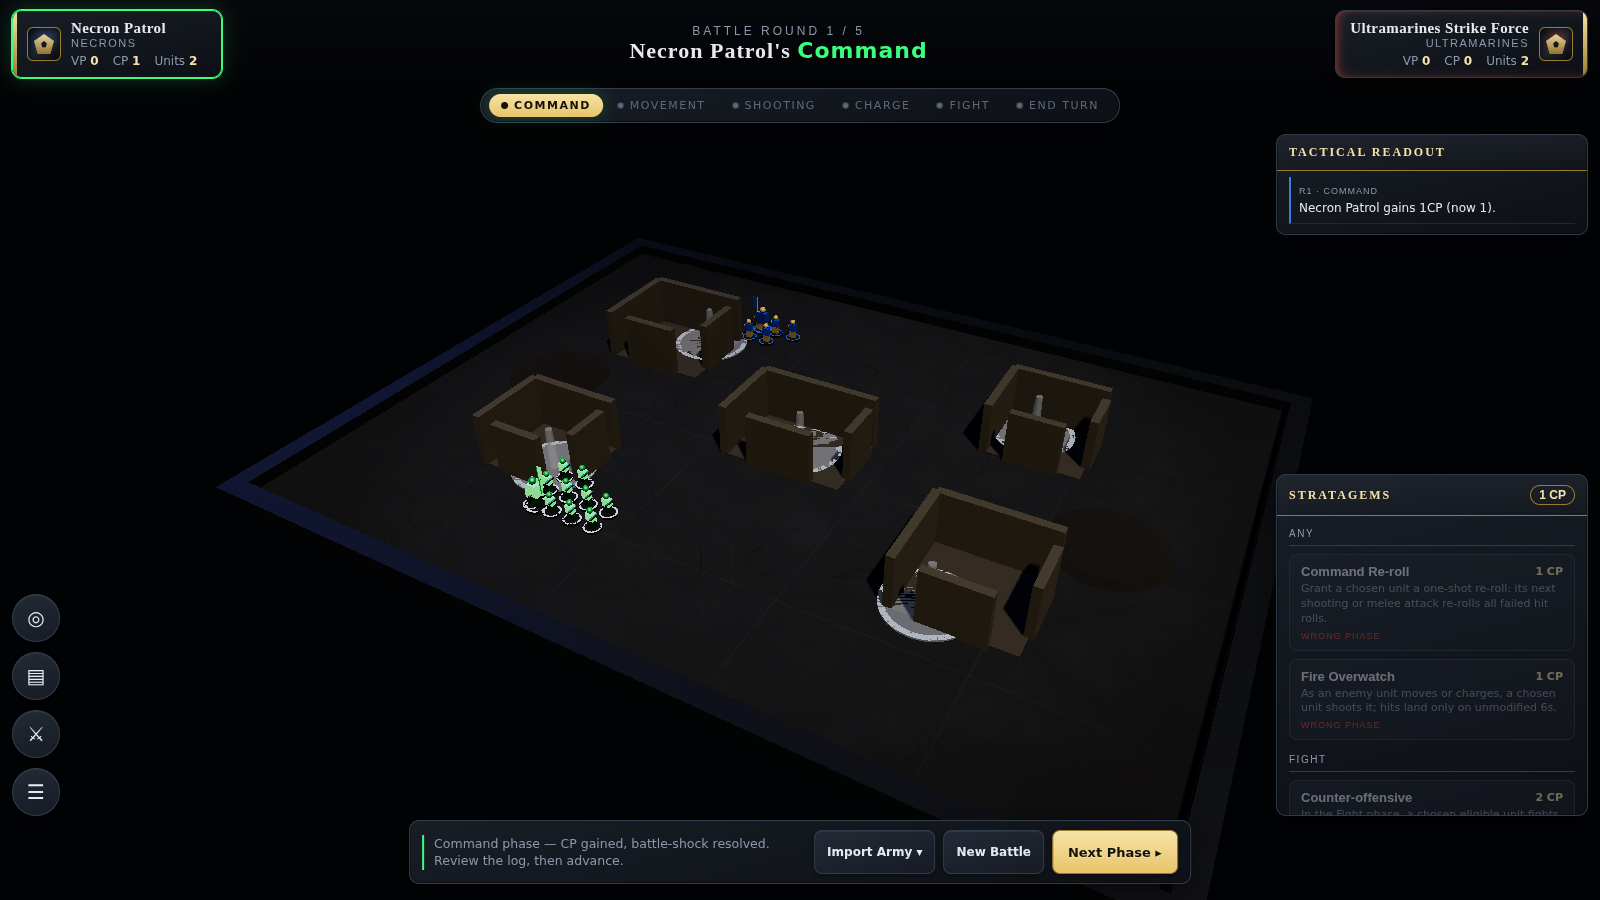
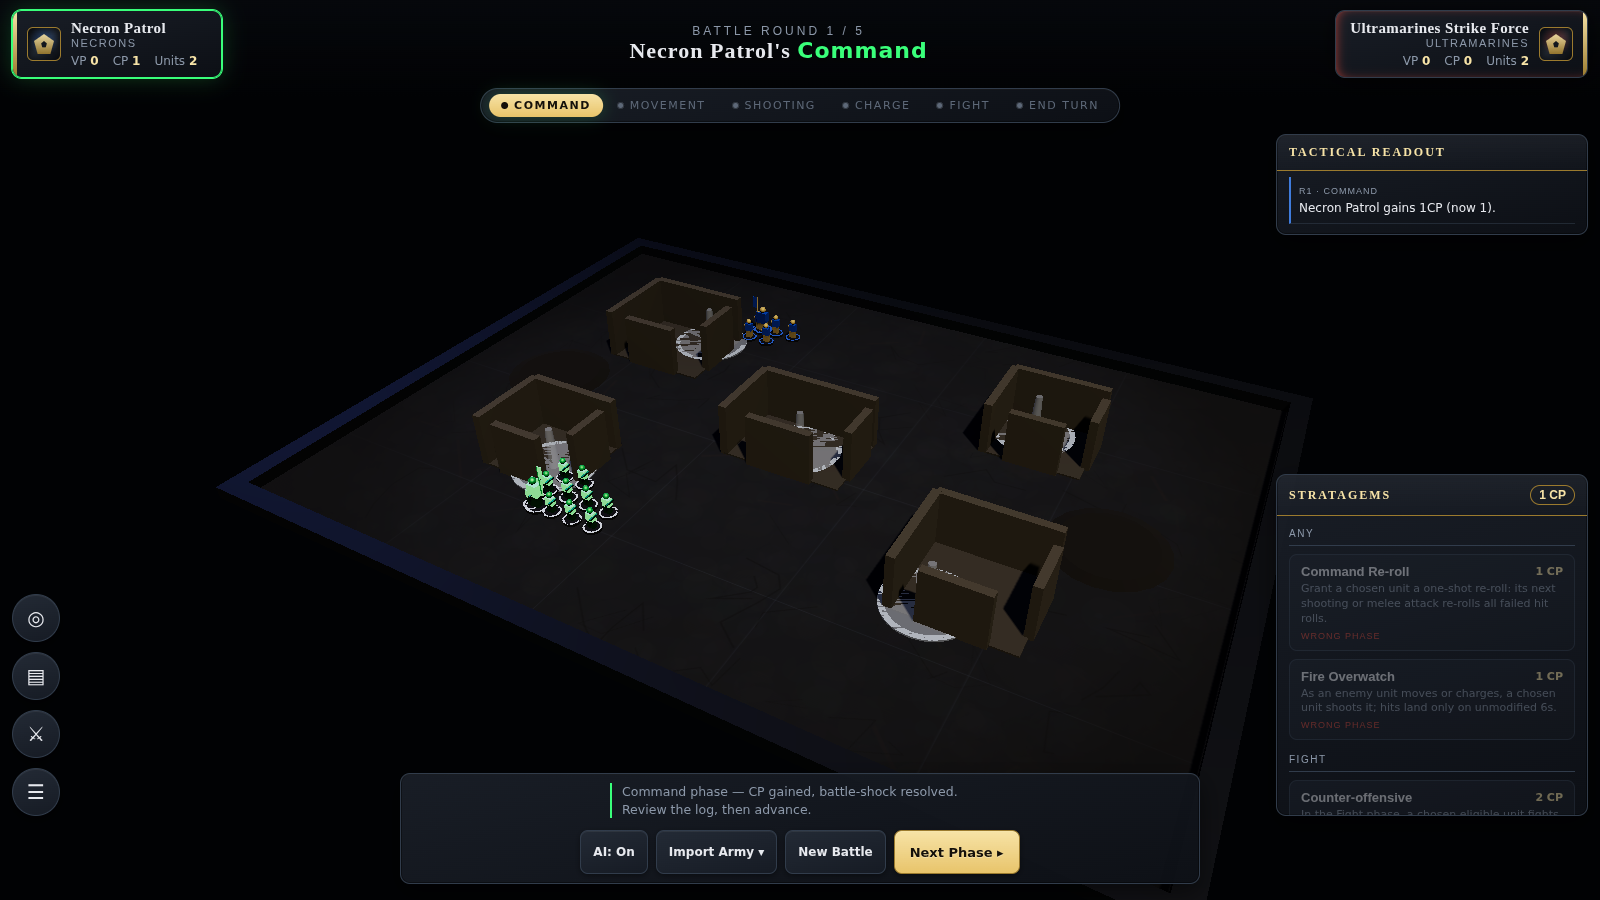
Add in-game Strategic Reserves + Deep Strike placement, AI deep-strikes
- Engine: sendToReserves (round-1 declaration, carries attached leader)
- Renderer: hides units held in reserves until they arrive
- HUD: round-1 'To Reserves' button; round-2 deep-strike placement mode with
  9" enemy exclusion rings; click to arrive (legality enforced)
- AI: brings reserves on by deep strike, ring-searching for a legal >9" spot
- Tests: reserves removal, round gating, AI deep-strike (120 total)

Claude-Session: https://claude.ai/code/session_017cP5UXbtBHAKPfxjZDVjCB

Changed region(s): [[0.25, 0.84, 0.75, 0.9956], [0.4062, 0.3733, 0.4375, 0.4044]]

diff --git a/src/ui/HUD.ts b/src/ui/HUD.ts
@@ -52,6 +52,9 @@ export class GameUI {
   /** Which side, if any, is played by the heuristic AI. Default: player B. */
   private aiPlayer: PlayerId | null = 'B';
 
+  /** When set, the next table click deep-strikes this reserve unit. */
+  private deepStrikeUnitId: string | null = null;
+
   // Stratagem shell state (presentation only).
   private stratagems: StratagemEntry[] = [];
   private onStratagem: ((id: string) => void) | null = null;
@@ -320,6 +323,42 @@ export class GameUI {
       );
     }
 
+    // Strategic Reserves: declare in round 1 command, arrive from round 2 movement.
+    if (
+      phase === 'command' &&
+      this.engine.state.round === 1 &&
+      sel &&
+      sel.ownerId === this.engine.active &&
+      !sel.inReserves &&
+      !sel.leadingUnitId
+    ) {
+      actions.append(
+        this.button('→ Reserves', 'small', () => {
+          const res = this.engine.sendToReserves(sel.id);
+          this.notify(res.message, !res.ok);
+          this.deselect();
+          this.refresh();
+        }),
+      );
+    }
+    if (phase === 'movement' && this.engine.state.round >= 2) {
+      for (const r of this.engine.reservesOf(this.engine.active)) {
+        const active = this.deepStrikeUnitId === r.id;
+        actions.append(
+          this.button(
+            `${active ? 'Placing ▸ ' : '⤓ Deep Strike: '}${r.name}`,
+            `small ${active ? 'primary' : ''}`,
+            () => {
+              this.deepStrikeUnitId = active ? null : r.id;
+              this.scene.clearOverlays();
+              if (this.deepStrikeUnitId) this.showDeepStrikeExclusion();
+              this.refresh();
+            },
+          ),
+        );
+      }
+    }
+
     // Universal controls
     actions.append(
       this.button(`AI: ${this.aiPlayer ? 'On' : 'Off'}`, 'small', () => this.toggleAi()),
@@ -339,6 +378,10 @@ export class GameUI {
       case 'command':
         return `Command phase — CP gained, battle-shock resolved. Review the log, then advance.`;
       case 'movement':
+        if (this.deepStrikeUnitId) {
+          const ds = this.engine.state.units[this.deepStrikeUnitId];
+          return `Deep striking <b>${ds?.name}</b> — click a spot outside every red 9" ring.`;
+        }
         return sel
           ? `Moving <b>${sel.name}</b> (${this.moveMode}). Click a destination on the table. Max ${this.engine
               .moveAllowance(sel, this.moveMode)
@@ -514,6 +557,7 @@ export class GameUI {
     if (this.engine.state.phase === 'fight') this.autoResolveFights(true);
     this.engine.advancePhase();
     this.deselect();
+    this.deepStrikeUnitId = null;
     this.scene.clearOverlays();
     // If the turn just passed to the AI player, let it play its whole turn.
     if (this.aiPlayer && this.engine.active === this.aiPlayer && this.engine.winner() === undefined) {
@@ -543,6 +587,17 @@ export class GameUI {
     const unit = r.unitId ? this.engine.state.units[r.unitId] : undefined;
 
     if (phase === 'movement') {
+      // Deep-strike placement takes priority when arming a reserve unit.
+      if (this.deepStrikeUnitId) {
+        const res = this.engine.deepStrikeArrive(this.deepStrikeUnitId, r.point);
+        this.notify(res.message, !res.ok);
+        if (res.ok) {
+          this.deepStrikeUnitId = null;
+          this.scene.clearOverlays();
+          this.refresh();
+        }
+        return;
+      }
       if (unit && unit.ownerId === this.engine.active) return this.selectUnit(unit.id);
       const sel = this.selected();
       if (sel) this.doMove(sel, r.point);
@@ -725,6 +780,13 @@ export class GameUI {
   /** Public toast for host-driven messages (e.g. stratagem results). */
   notify(message: string, warn = false): void {
     this.toast(message, warn);
+  }
+
+  /** Draw 9" no-deploy rings around every enemy unit (deep-strike guidance). */
+  private showDeepStrikeExclusion(): void {
+    for (const e of this.engine.enemiesOf(this.engine.active)) {
+      this.scene.showRange(unitCentroid(e), 9, 0xd6483b);
+    }
   }
 
   private toast(msg: string, warn = false): void {

diff --git a/tests/deepstrike.test.ts b/tests/deepstrike.test.ts
@@ -1,0 +1,62 @@
+import { describe, it, expect } from 'vitest';
+import { createGame } from '../src/engine/factory';
+import { GameEngine } from '../src/engine/game';
+import { DATASHEETS, SAMPLE_ARMIES } from '../src/engine/data/index';
+import { runAiTurn } from '../src/engine/ai';
+import type { UnitInstance } from '../src/engine/types';
+
+function freshEngine(seed: number): GameEngine {
+  const state = createGame(
+    { seed, players: { A: { name: 'Necrons', faction: 'Necrons' }, B: { name: 'Marines', faction: 'Ultramarines' } } },
+    DATASHEETS,
+    SAMPLE_ARMIES.necrons,
+    SAMPLE_ARMIES.ultramarines,
+  );
+  const e = new GameEngine(state);
+  e.startGame();
+  return e;
+}
+
+const bUnitByDatasheet = (e: GameEngine, ds: string): UnitInstance =>
+  e.unitsOf('B').find((u) => u.datasheetId === ds)!;
+
+describe('strategic reserves and deep strike', () => {
+  it('declaring reserves removes the unit (and its leader) from the table', () => {
+    const e = freshEngine(11);
+    const intercessors = bUnitByDatasheet(e, 'ultramarines_intercessors');
+    const res = e.sendToReserves(intercessors.id);
+    expect(res.ok).toBe(true);
+    expect(intercessors.inReserves).toBe(true);
+    // Reserve units are not present for targeting / objectives.
+    expect(e.enemiesOf('A').some((u) => u.id === intercessors.id)).toBe(false);
+  });
+
+  it('reserves cannot arrive in round 1 but can from round 2', () => {
+    const e = freshEngine(12);
+    const intercessors = bUnitByDatasheet(e, 'ultramarines_intercessors');
+    e.sendToReserves(intercessors.id);
+    const early = e.deepStrikeArrive(intercessors.id, { x: 30, y: 22 });
+    expect(early.ok).toBe(false); // round 1
+
+    // Advance to battle round 2.
+    while (!(e.state.round === 2)) e.advancePhase();
+    const ok = e.deepStrikeArrive(intercessors.id, { x: 30, y: 30 });
+    // Either it placed, or the chosen point was illegal (<9"): if illegal, a
+    // far corner must work.
+    const arrived = ok.ok || e.deepStrikeArrive(intercessors.id, { x: 6, y: 22 }).ok;
+    expect(arrived).toBe(true);
+    expect(intercessors.inReserves).toBe(false);
+  });
+
+  it('the AI brings its reserves on by deep strike in round 2', () => {
+    const e = freshEngine(20);
+    const intercessors = bUnitByDatasheet(e, 'ultramarines_intercessors');
+    e.sendToReserves(intercessors.id);
+    expect(intercessors.inReserves).toBe(true);
+
+    // Play to the start of B's round-2 turn.
+    while (!(e.state.round === 2 && e.active === 'B')) e.advancePhase();
+    runAiTurn(e);
+    expect(intercessors.inReserves).toBe(false); // AI found a legal spot
+  });
+});

diff --git a/src/engine/ai.ts b/src/engine/ai.ts
@@ -40,11 +40,41 @@ function moveGoal(e: GameEngine, u: UnitInstance): { x: number; y: number } | un
   return enemy ? unitCentroid(enemy) : undefined;
 }
 
+/** Candidate deep-strike points: the goal first, then a widening ring search. */
+function deepStrikeCandidates(
+  goal: { x: number; y: number },
+  board: { width: number; height: number },
+): Array<{ x: number; y: number }> {
+  const out = [goal];
+  for (let radius = 4; radius <= 24; radius += 4) {
+    for (let a = 0; a < 8; a++) {
+      const ang = (a / 8) * Math.PI * 2;
+      const x = goal.x + Math.cos(ang) * radius;
+      const y = goal.y + Math.sin(ang) * radius;
+      if (x > 3 && x < board.width - 3 && y > 3 && y < board.height - 3) out.push({ x, y });
+    }
+  }
+  return out;
+}
+
 function playPhase(e: GameEngine): void {
   const phase = e.state.phase;
   const own = e.unitsOf(e.active).filter((u) => e.isAlive(u) && !u.inReserves);
 
   if (phase === 'movement') {
+    // Bring reserves on by Deep Strike (round 2+), aiming near a target
+    // objective and searching outward for a legal (>9" from enemies) spot.
+    if (e.state.round >= 2) {
+      for (const r of e.reservesOf(e.active)) {
+        const goal = moveGoal(e, r) ?? { x: e.state.board.width / 2, y: e.state.board.height / 2 };
+        // Try the goal, then spiral outward; deepStrikeArrive is a no-op on
+        // failure, so the first ok placement wins.
+        const candidates = deepStrikeCandidates(goal, e.state.board);
+        for (const c of candidates) {
+          if (e.deepStrikeArrive(r.id, c).ok) break;
+        }
+      }
+    }
     for (const u of own) {
       if (e.enemiesOf(u.ownerId).some((en) => inEngagementRange(u, en))) continue;
       const goal = moveGoal(e, u);

diff --git a/src/engine/game.ts b/src/engine/game.ts
@@ -714,6 +714,30 @@ export class GameEngine {
     return { ok: true, message: `${u.name} arrives from Deep Strike.` };
   }
 
+  /**
+   * Declare a unit into Strategic Reserves (testing aid: normally set at
+   * deployment). Allowed only during battle round 1. The unit and any attached
+   * leader leave the table; they must arrive by Deep Strike from round 2.
+   */
+  sendToReserves(unitId: string): { ok: boolean; message: string } {
+    const u = this.state.units[unitId];
+    if (!u) return { ok: false, message: `Unknown unit: ${unitId}` };
+    if (this.state.round > 1) {
+      return { ok: false, message: 'Reserves can only be declared in battle round 1.' };
+    }
+    u.inReserves = true;
+    u.deepStrike = true;
+    for (const leaderId of u.attachedLeaderIds) {
+      const leader = this.state.units[leaderId];
+      if (leader) {
+        leader.inReserves = true;
+        leader.deepStrike = true;
+      }
+    }
+    this.log(`${u.name} is placed into Strategic Reserves.`);
+    return { ok: true, message: `${u.name} held in Reserves; deep strike from round 2.` };
+  }
+
   // ---------------------------------------------------------------- win check
   winner(): PlayerId | 'draw' | undefined {
     const aAlive = this.unitsOf('A').some((u) => this.isAlive(u));

diff --git a/src/render/ThreeScene.ts b/src/render/ThreeScene.ts
@@ -859,6 +859,11 @@ export class ThreeScene implements SceneController {
     for (const unit of Object.values(state.units)) {
       const uv = this.ensureUnitVisual(unit);
 
+      // Units held in Strategic Reserves are off the table — hide them entirely
+      // until they arrive (Deep Strike clears inReserves).
+      uv.group.visible = !unit.inReserves;
+      if (unit.inReserves) continue;
+
       // If an imported model is in use, keep it centred on the unit centroid.
       if (uv.imported) {
         this.positionImported(unit, uv);
